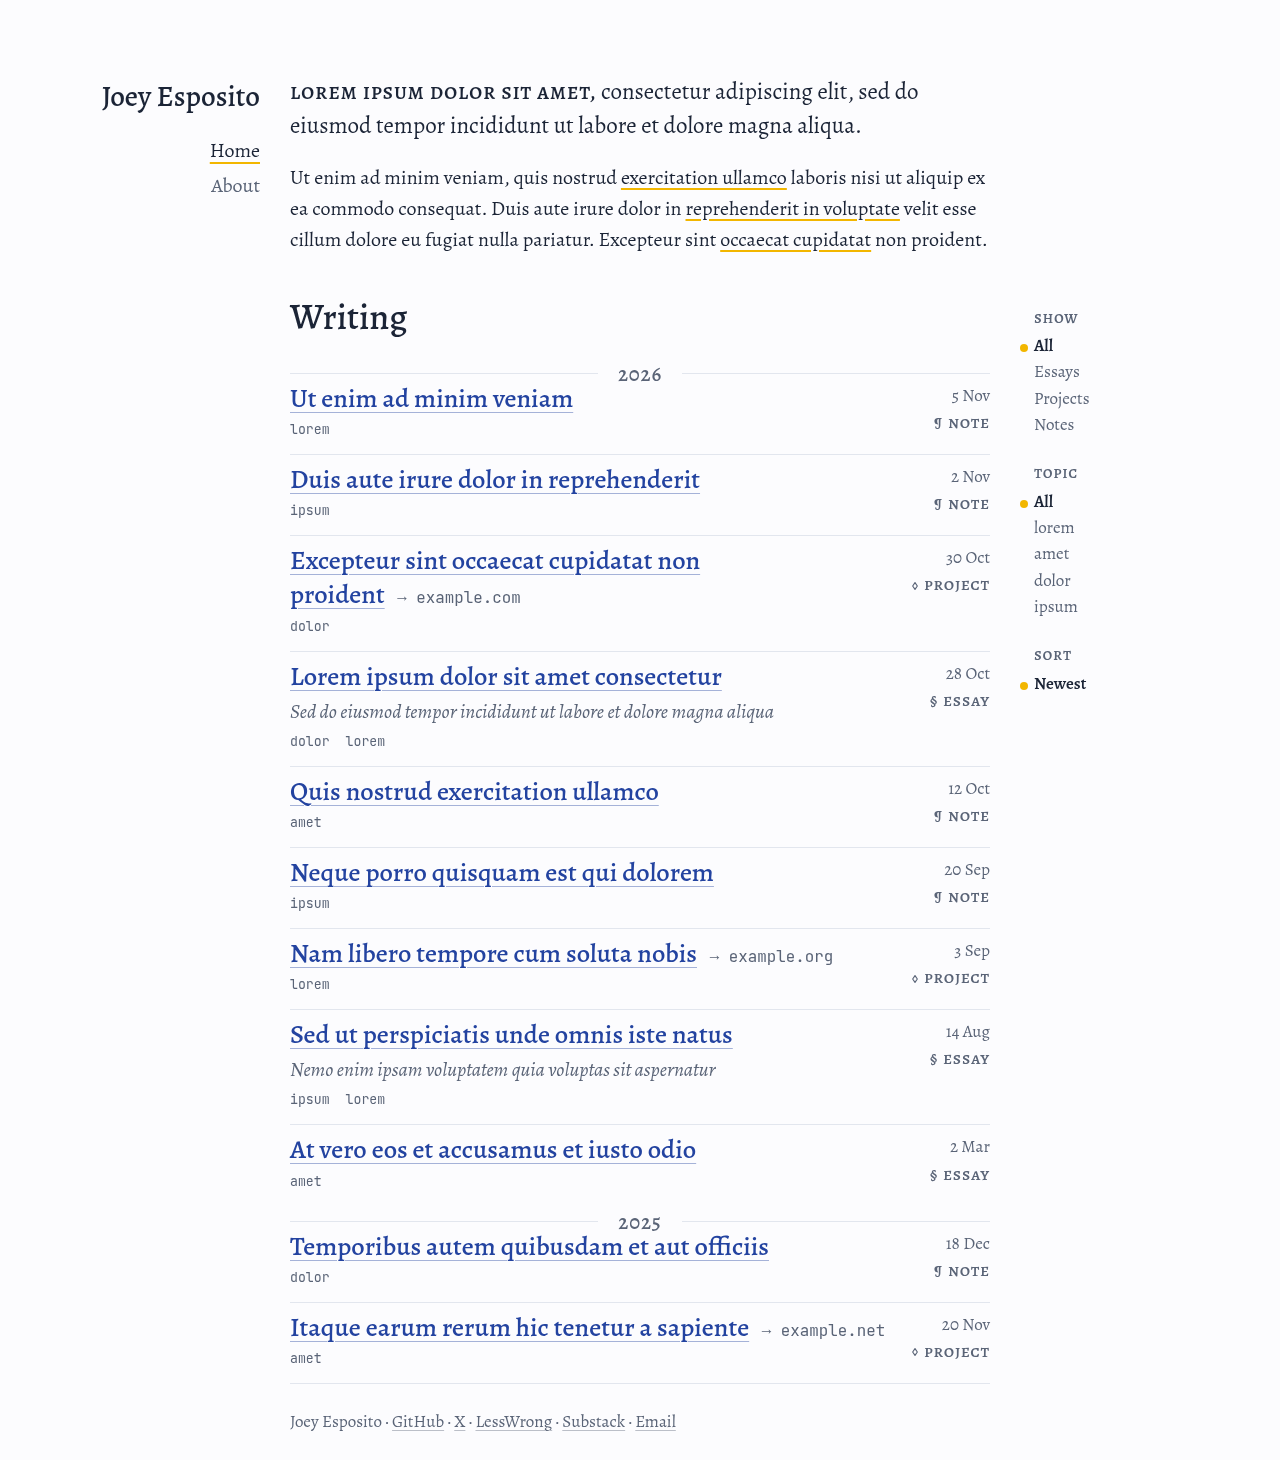
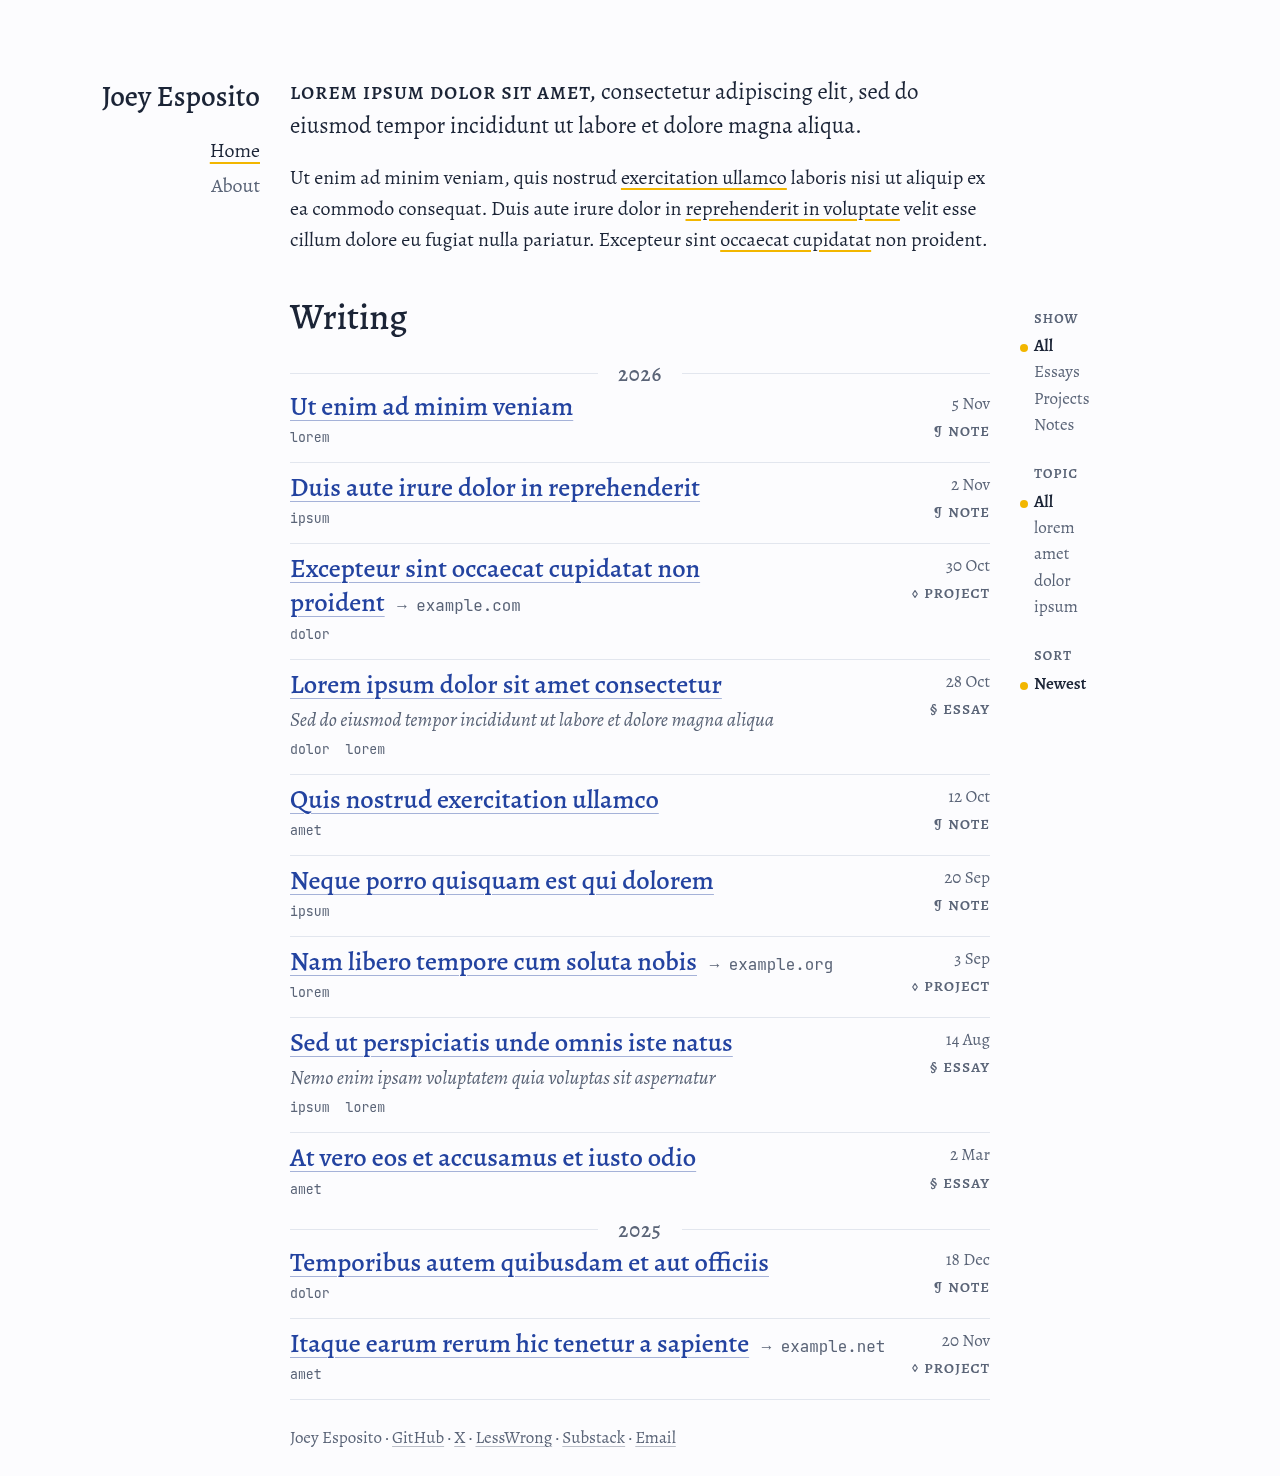
Leave a little room between a year's line and the title below it

diff --git a/src/styles/global.css b/src/styles/global.css
@@ -210,8 +210,8 @@ body:has(.prose-page) .site-footer { margin-top: 2rem; }
 
 /* Years divide the list; an entry is a date column and a title column, ruled beneath. */
 /* The year's hairlines run through the middle of its line; the negative bottom margin of half
-   a line starts the next entry as far below them as an entry starts below an entry's rule. */
-.year { display: flex; align-items: center; gap: 1rem; margin: 0 0 -0.5lh; font-size: 1.05rem; font-weight: 500; letter-spacing: 0.04em; color: var(--muted); }
+   a line, less a little room for the year itself, starts the next entry just below them. */
+.year { display: flex; align-items: center; gap: 1rem; margin: 0 0 calc(0.4rem - 0.5lh); font-size: 1.05rem; font-weight: 500; letter-spacing: 0.04em; color: var(--muted); }
 .year::before, .year::after { content: ''; flex: 1; border-top: 1px solid var(--rule); }
 .post-list > .year:first-child { margin-top: 0.6rem; }
 /* A year's divider closes the year before it, so the entry above it needs no rule. */
